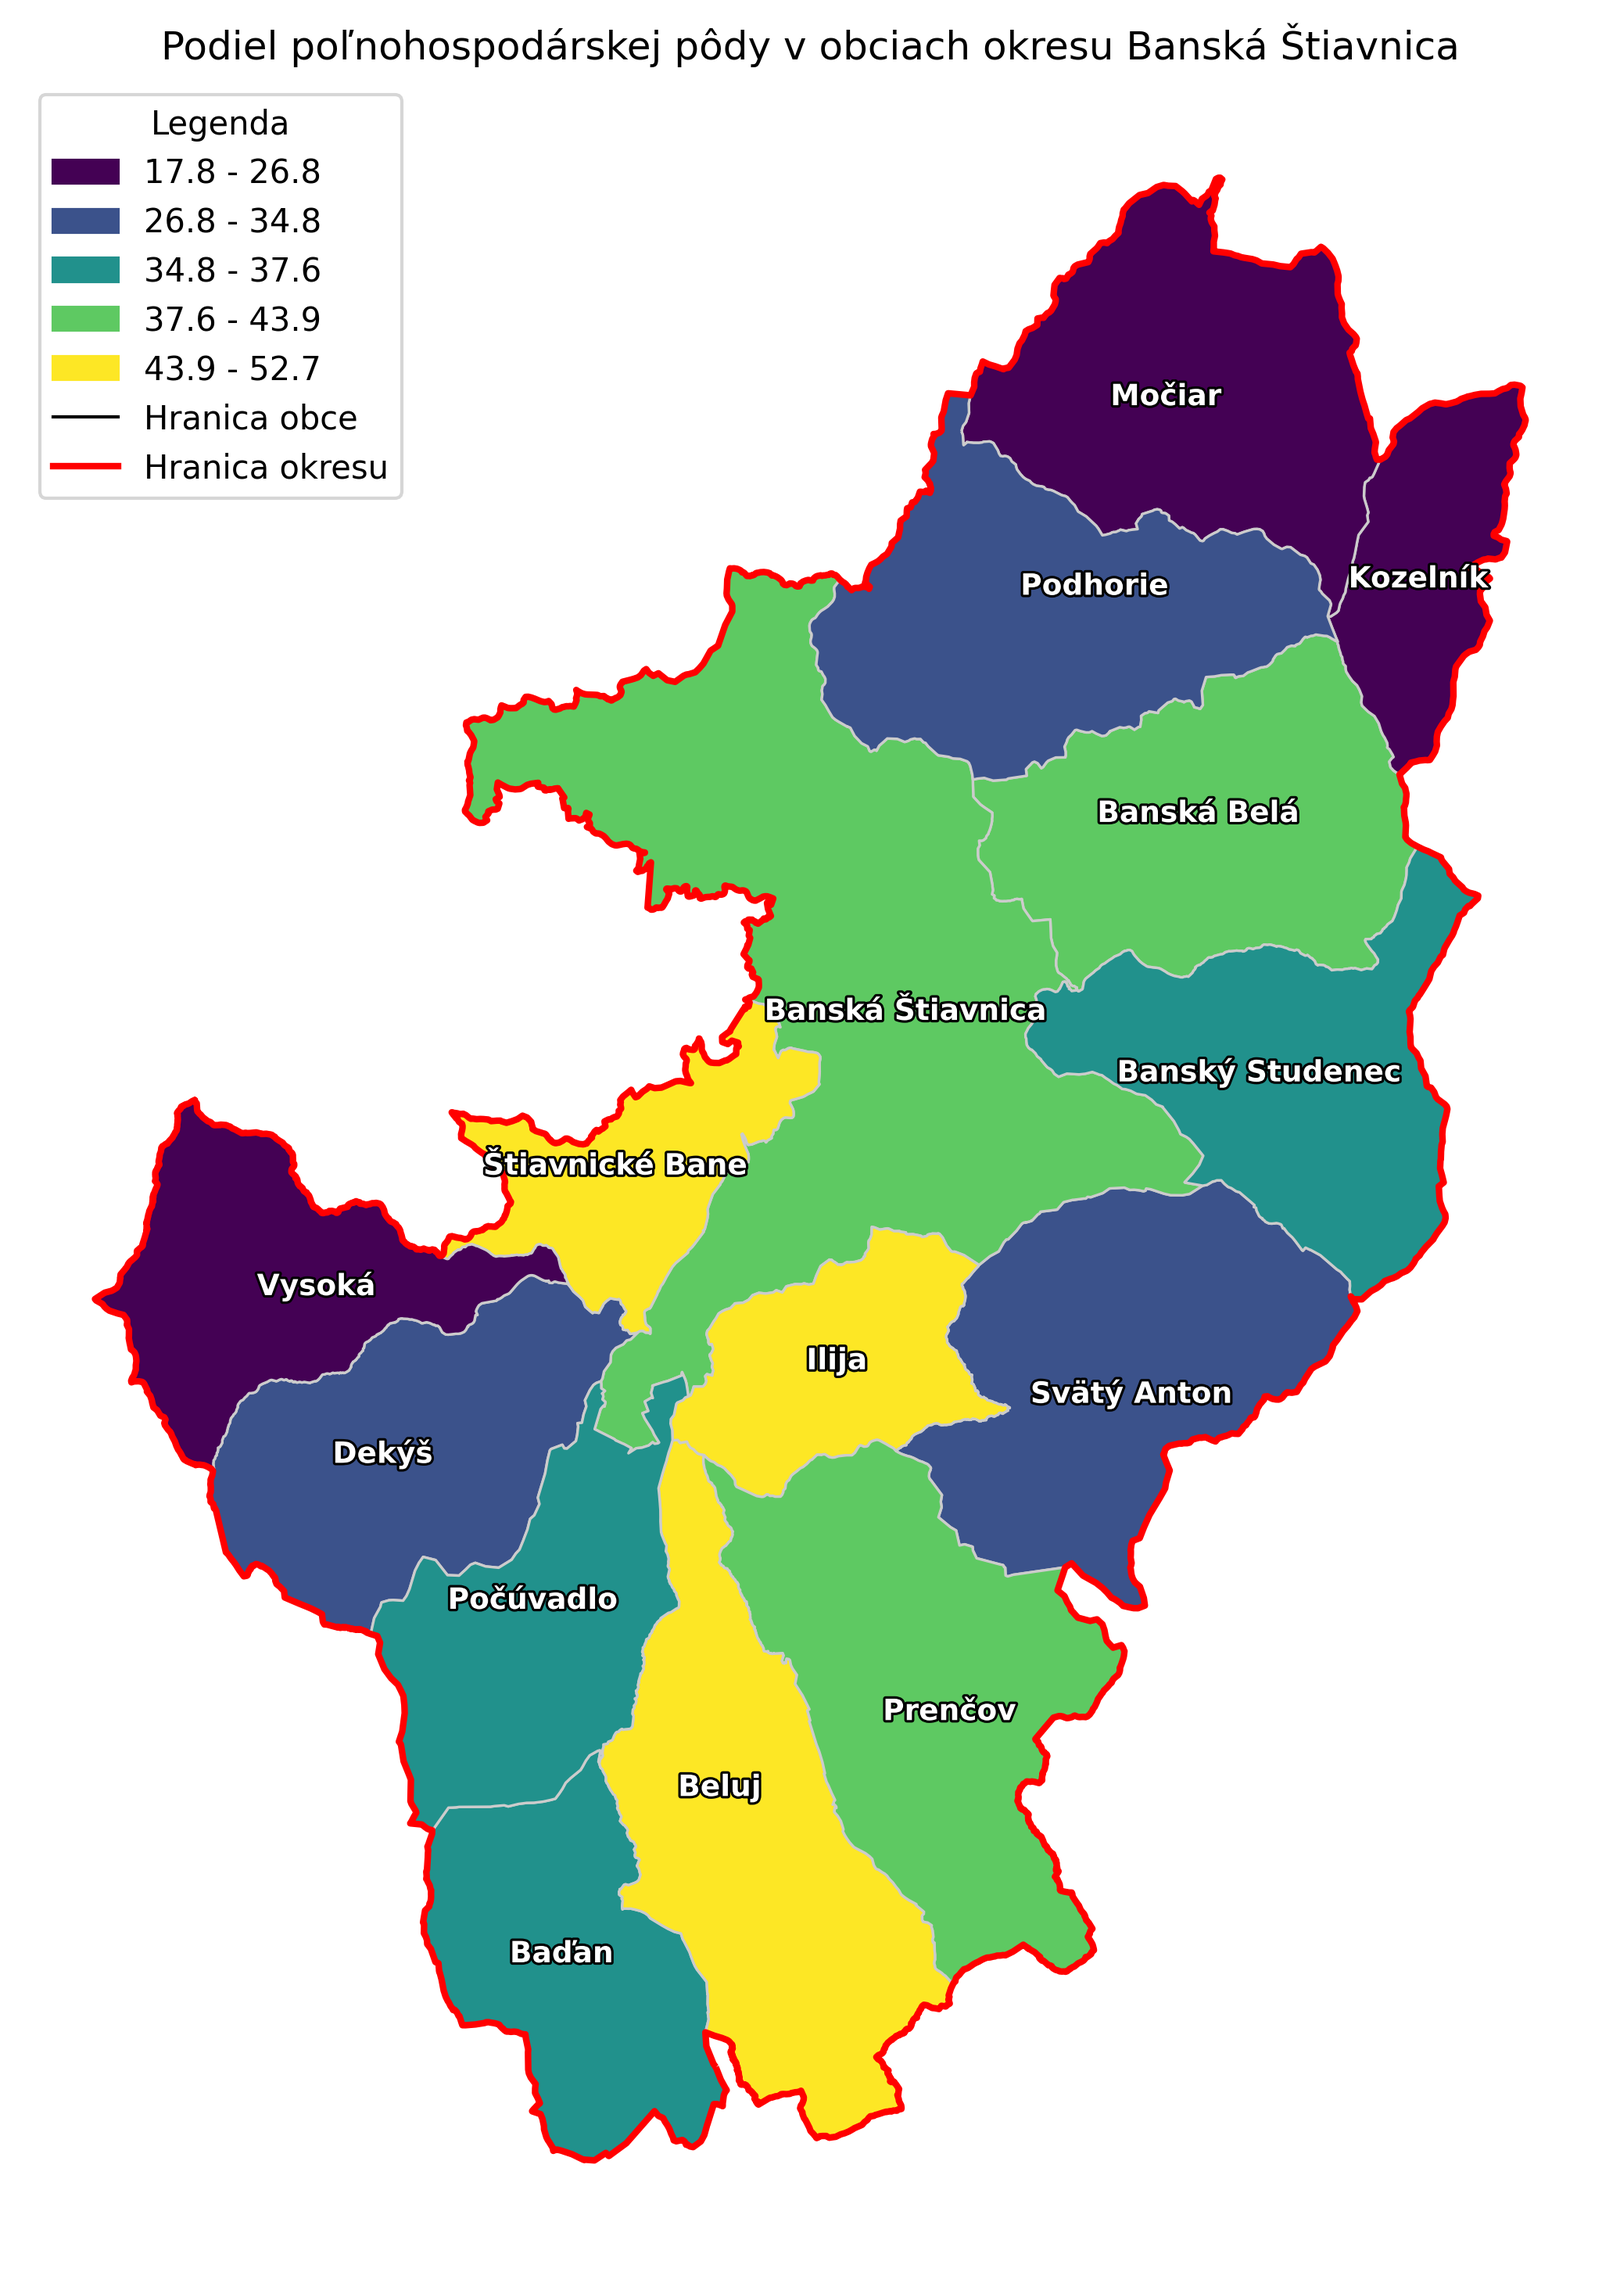
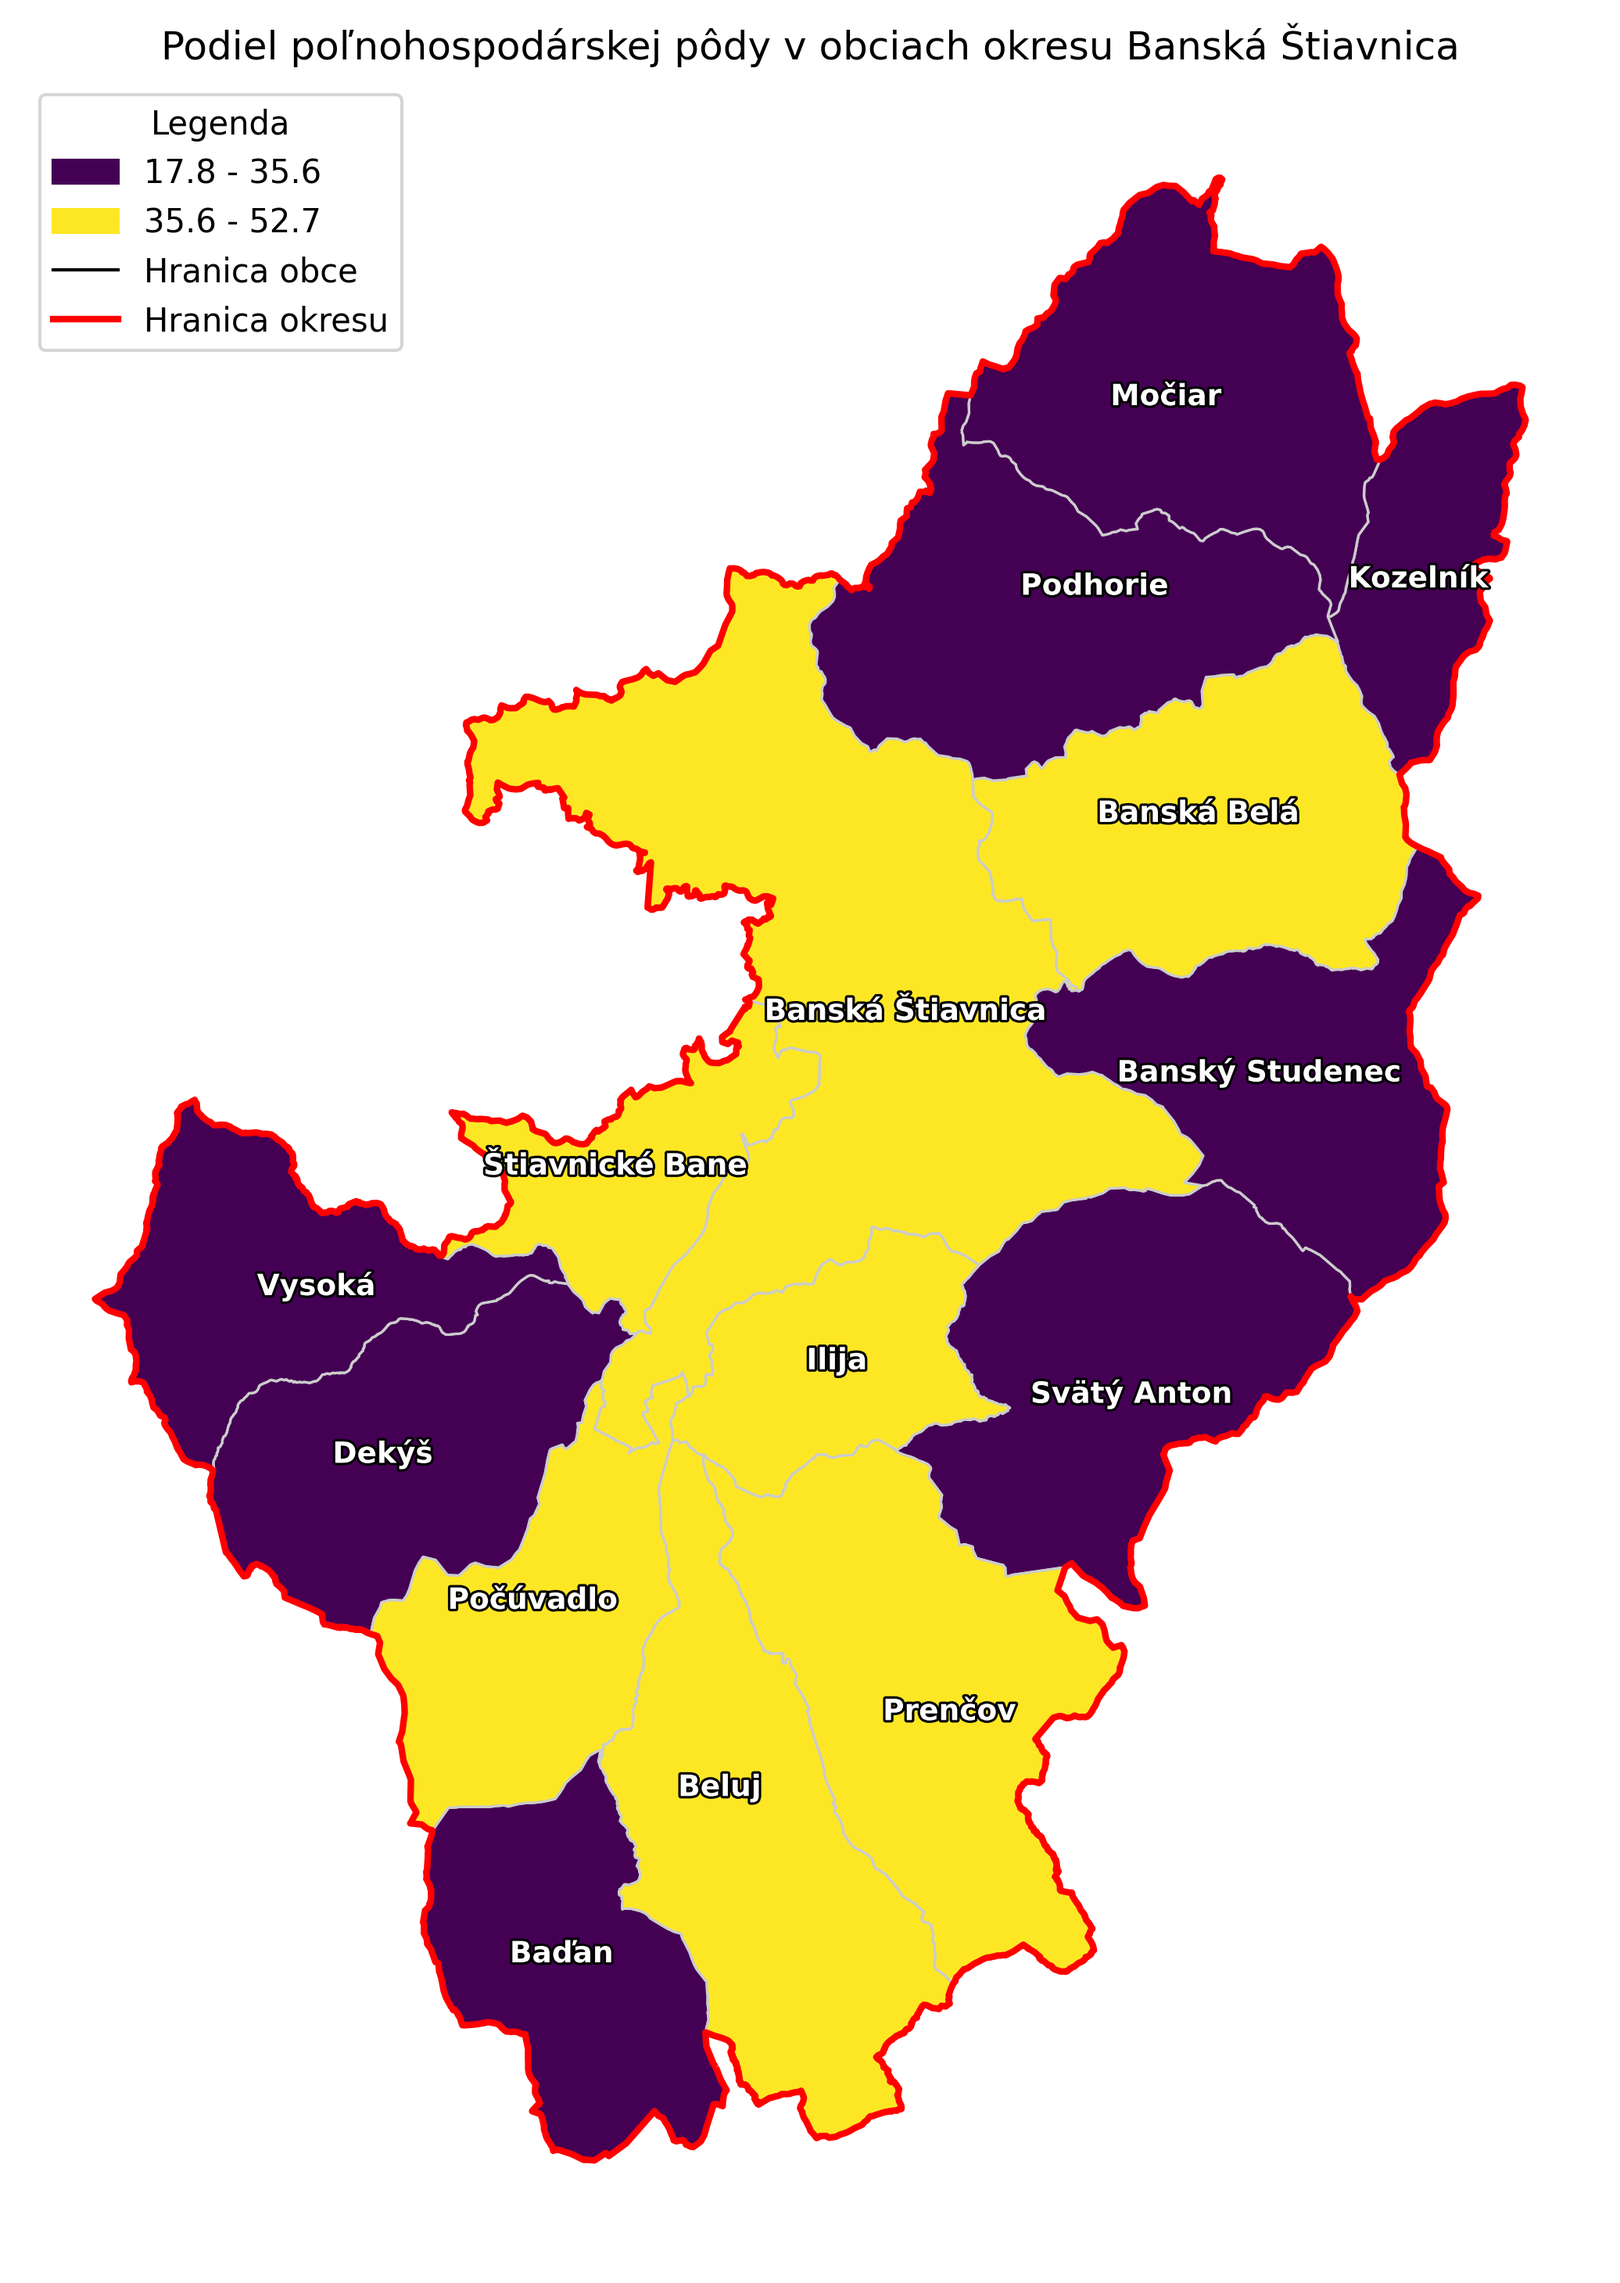
feat: small improvement

Changed region(s): [[0.1236, 0.1559, 0.9266, 0.9664], [0.0309, 0.0624, 0.2471, 0.2182]]

diff --git a/bs.py b/bs.py
@@ -10,21 +10,26 @@ SHP_FILE_PATH = 'shp/obec_0.shp'
 DISTRICT_NAME = 'Banská Štiavnica'
 COLUMN_NAME = 'Podiel poľnohosp. pôdy z celkovej plochy (%)'
 NUM_CLASSES = 5
-COLOR_MAP = plt.cm.viridis
+COLOR_MAP = plt.colormaps['viridis']
 OUTPUT_FILE = 'mapa.png'
 
 def load_data(csv_file_path, shp_file_path):
     """
     Loads CSV and shapefile data.
-    ... [extended documentation]
+
+    Args:
+        csv_file_path (str): Path to the CSV file.
+        shp_file_path (str): Path to the shapefile.
+
+    Returns:
+        tuple: Tuple containing the CSV data as a pandas DataFrame and shapefile data as a GeoDataFrame.
+
+    Raises:
+        IOError: If there is an error loading the data.
     """
     try:
         csv_data = pd.read_csv(csv_file_path)
         shp_data = gpd.read_file(shp_file_path)
-    except pd.errors.ParserError as e:
-        raise IOError(f"CSV parsing error: {e}")
-    except FileNotFoundError as e:
-        raise IOError(f"File not found: {e}")
     except Exception as e:
         raise IOError(f"Error loading data: {e}")
     return csv_data, shp_data
@@ -102,7 +107,7 @@ def create_legend_elements(num_classes, quantiles, cmap):
     ])
     return legend_elements
 
-def plot_map(merged_data, classified_data, quantiles):
+def plot_map(merged_data, classified_data, quantiles, num_classes):
     """
     Plots the map with the classified data.
 
@@ -110,14 +115,15 @@ def plot_map(merged_data, classified_data, quantiles):
         merged_data (GeoDataFrame): Merged shapefile and CSV data.
         classified_data (Series): Classified data.
         quantiles (Series): Quantile values.
+        num_classes (Number): Number of classes
     """
     fig, ax = plt.subplots(1, 1, figsize=(10, 10))
-    cmap = plt.cm.viridis
+    cmap = COLOR_MAP
     merged_data.assign(cl=classified_data).plot(column='cl', cmap=cmap, linewidth=0.8, ax=ax, edgecolor='0.8')
 
     add_map_features(merged_data, ax)
 
-    ax.legend(handles=create_legend_elements(5, quantiles, cmap), title="Legenda", loc='upper left')
+    ax.legend(handles=create_legend_elements(num_classes, quantiles, cmap), title="Legenda", loc='upper left')
     ax.set_title('Podiel poľnohospodárskej pôdy v obciach okresu Banská Štiavnica')
     ax.set_axis_off()
 
@@ -147,4 +153,4 @@ def add_map_features(merged_data, ax):
 csv_data, shp_data = load_data(CSV_FILE_PATH, SHP_FILE_PATH)
 merged_data = merge_datasets(shp_data, csv_data, DISTRICT_NAME)
 classified_data, quantiles = classify_data(merged_data, COLUMN_NAME, NUM_CLASSES)
-plot_map(merged_data, classified_data, quantiles)
+plot_map(merged_data, classified_data, quantiles, NUM_CLASSES)
